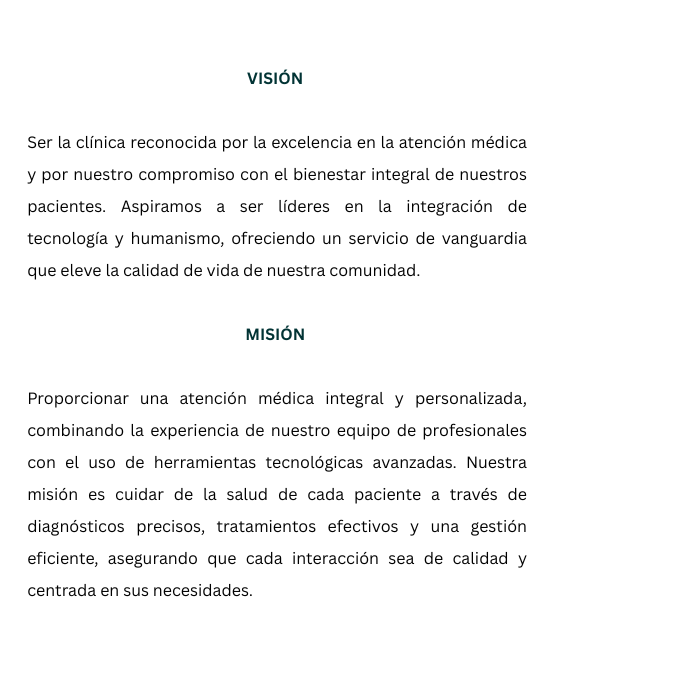
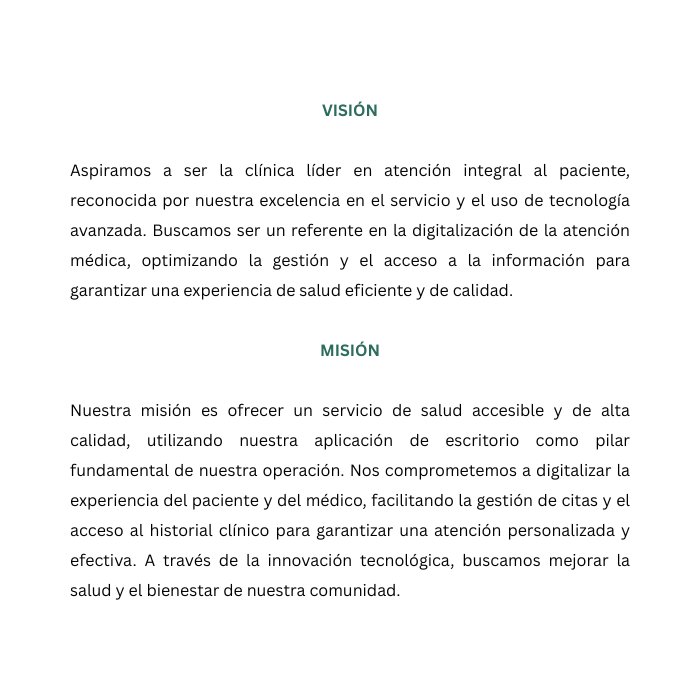
Corregi errores

diff --git a/src/Vista/LoginORSignIn.java b/src/Vista/LoginORSignIn.java
@@ -41,11 +41,11 @@ public class LoginORSignIn extends javax.swing.JFrame {
         jLabel3 = new javax.swing.JLabel();
         jLabel4 = new javax.swing.JLabel();
         jLabel5 = new javax.swing.JLabel();
-        jLabel7 = new javax.swing.JLabel();
         jLabel6 = new javax.swing.JLabel();
         jLabel8 = new javax.swing.JLabel();
         jLabel9 = new javax.swing.JLabel();
         jLabel10 = new javax.swing.JLabel();
+        jLabel7 = new javax.swing.JLabel();
         jMenuBar1 = new javax.swing.JMenuBar();
         jMenu1 = new javax.swing.JMenu();
 
@@ -127,10 +127,10 @@ public class LoginORSignIn extends javax.swing.JFrame {
         jLabel5.setHorizontalAlignment(javax.swing.SwingConstants.CENTER);
         jLabel5.setIcon(new javax.swing.ImageIcon(getClass().getResource("/IMGS/down-arrow.png"))); // NOI18N
 
-        jLabel7.setIcon(new javax.swing.ImageIcon(getClass().getResource("/IMGS/Vision y mision.png"))); // NOI18N
-
+        jLabel6.setHorizontalAlignment(javax.swing.SwingConstants.CENTER);
         jLabel6.setIcon(new javax.swing.ImageIcon(getClass().getResource("/IMGS/descripcion.png"))); // NOI18N
 
+        jLabel8.setHorizontalAlignment(javax.swing.SwingConstants.CENTER);
         jLabel8.setIcon(new javax.swing.ImageIcon(getClass().getResource("/IMGS/Contactos.png"))); // NOI18N
 
         jLabel9.setForeground(new java.awt.Color(102, 102, 102));
@@ -141,61 +141,66 @@ public class LoginORSignIn extends javax.swing.JFrame {
         jLabel10.setHorizontalAlignment(javax.swing.SwingConstants.CENTER);
         jLabel10.setText("INNOVA");
 
+        jLabel7.setHorizontalAlignment(javax.swing.SwingConstants.CENTER);
+        jLabel7.setIcon(new javax.swing.ImageIcon(getClass().getResource("/IMGS/Vision y mision.png"))); // NOI18N
+
         javax.swing.GroupLayout jPanel2Layout = new javax.swing.GroupLayout(jPanel2);
         jPanel2.setLayout(jPanel2Layout);
         jPanel2Layout.setHorizontalGroup(
             jPanel2Layout.createParallelGroup(javax.swing.GroupLayout.Alignment.LEADING)
             .addGroup(jPanel2Layout.createSequentialGroup()
-                .addGroup(jPanel2Layout.createParallelGroup(javax.swing.GroupLayout.Alignment.LEADING)
-                    .addGroup(jPanel2Layout.createSequentialGroup()
-                        .addGap(197, 197, 197)
-                        .addComponent(jLabel9))
-                    .addGroup(jPanel2Layout.createSequentialGroup()
-                        .addGap(106, 106, 106)
-                        .addGroup(jPanel2Layout.createParallelGroup(javax.swing.GroupLayout.Alignment.TRAILING)
-                            .addComponent(jLabel3, javax.swing.GroupLayout.PREFERRED_SIZE, 491, javax.swing.GroupLayout.PREFERRED_SIZE)
-                            .addGroup(jPanel2Layout.createParallelGroup(javax.swing.GroupLayout.Alignment.LEADING)
-                                .addComponent(jLabel1)
-                                .addComponent(jLabel6)))))
-                .addContainerGap(javax.swing.GroupLayout.DEFAULT_SIZE, Short.MAX_VALUE))
+                .addContainerGap(javax.swing.GroupLayout.DEFAULT_SIZE, Short.MAX_VALUE)
+                .addComponent(jLabel8, javax.swing.GroupLayout.PREFERRED_SIZE, 648, javax.swing.GroupLayout.PREFERRED_SIZE)
+                .addGap(34, 34, 34))
             .addGroup(javax.swing.GroupLayout.Alignment.TRAILING, jPanel2Layout.createSequentialGroup()
-                .addGap(0, 78, Short.MAX_VALUE)
+                .addGap(0, 0, Short.MAX_VALUE)
                 .addGroup(jPanel2Layout.createParallelGroup(javax.swing.GroupLayout.Alignment.LEADING)
-                    .addGroup(javax.swing.GroupLayout.Alignment.TRAILING, jPanel2Layout.createSequentialGroup()
-                        .addGroup(jPanel2Layout.createParallelGroup(javax.swing.GroupLayout.Alignment.TRAILING)
-                            .addComponent(jLabel8, javax.swing.GroupLayout.PREFERRED_SIZE, 579, javax.swing.GroupLayout.PREFERRED_SIZE)
-                            .addComponent(jLabel7, javax.swing.GroupLayout.PREFERRED_SIZE, 569, javax.swing.GroupLayout.PREFERRED_SIZE)
-                            .addComponent(jLabel10, javax.swing.GroupLayout.PREFERRED_SIZE, 318, javax.swing.GroupLayout.PREFERRED_SIZE))
-                        .addGap(66, 66, 66))
+                    .addComponent(jLabel6, javax.swing.GroupLayout.PREFERRED_SIZE, 652, javax.swing.GroupLayout.PREFERRED_SIZE)
+                    .addGroup(jPanel2Layout.createSequentialGroup()
+                        .addGap(10, 10, 10)
+                        .addComponent(jLabel7, javax.swing.GroupLayout.PREFERRED_SIZE, 623, javax.swing.GroupLayout.PREFERRED_SIZE)))
+                .addGap(74, 74, 74))
+            .addGroup(jPanel2Layout.createSequentialGroup()
+                .addContainerGap(143, Short.MAX_VALUE)
+                .addGroup(jPanel2Layout.createParallelGroup(javax.swing.GroupLayout.Alignment.LEADING)
+                    .addComponent(jLabel10, javax.swing.GroupLayout.Alignment.TRAILING, javax.swing.GroupLayout.PREFERRED_SIZE, 318, javax.swing.GroupLayout.PREFERRED_SIZE)
+                    .addGroup(javax.swing.GroupLayout.Alignment.TRAILING, jPanel2Layout.createParallelGroup(javax.swing.GroupLayout.Alignment.LEADING)
+                        .addComponent(jLabel1)
+                        .addComponent(jLabel3, javax.swing.GroupLayout.PREFERRED_SIZE, 491, javax.swing.GroupLayout.PREFERRED_SIZE))
                     .addGroup(javax.swing.GroupLayout.Alignment.TRAILING, jPanel2Layout.createSequentialGroup()
                         .addComponent(jLabel4, javax.swing.GroupLayout.PREFERRED_SIZE, 322, javax.swing.GroupLayout.PREFERRED_SIZE)
-                        .addGap(190, 190, 190))
-                    .addGroup(javax.swing.GroupLayout.Alignment.TRAILING, jPanel2Layout.createSequentialGroup()
-                        .addComponent(jLabel5)
-                        .addGap(319, 319, 319))))
+                        .addGap(95, 95, 95))
+                    .addGroup(jPanel2Layout.createSequentialGroup()
+                        .addGap(74, 74, 74)
+                        .addComponent(jLabel9)))
+                .addContainerGap(141, Short.MAX_VALUE))
+            .addGroup(jPanel2Layout.createSequentialGroup()
+                .addGap(347, 347, 347)
+                .addComponent(jLabel5)
+                .addContainerGap(javax.swing.GroupLayout.DEFAULT_SIZE, Short.MAX_VALUE))
         );
         jPanel2Layout.setVerticalGroup(
             jPanel2Layout.createParallelGroup(javax.swing.GroupLayout.Alignment.LEADING)
             .addGroup(jPanel2Layout.createSequentialGroup()
-                .addGap(34, 34, 34)
+                .addGap(54, 54, 54)
                 .addComponent(jLabel1)
-                .addGap(39, 39, 39)
+                .addGap(18, 18, 18)
                 .addComponent(jLabel10, javax.swing.GroupLayout.PREFERRED_SIZE, 64, javax.swing.GroupLayout.PREFERRED_SIZE)
-                .addGap(71, 71, 71)
+                .addGap(64, 64, 64)
                 .addComponent(jLabel3, javax.swing.GroupLayout.PREFERRED_SIZE, 221, javax.swing.GroupLayout.PREFERRED_SIZE)
-                .addGap(70, 70, 70)
+                .addGap(75, 75, 75)
                 .addComponent(jLabel4, javax.swing.GroupLayout.PREFERRED_SIZE, 39, javax.swing.GroupLayout.PREFERRED_SIZE)
                 .addPreferredGap(javax.swing.LayoutStyle.ComponentPlacement.UNRELATED)
                 .addComponent(jLabel5)
-                .addGap(50, 50, 50)
-                .addComponent(jLabel6, javax.swing.GroupLayout.PREFERRED_SIZE, 305, javax.swing.GroupLayout.PREFERRED_SIZE)
-                .addPreferredGap(javax.swing.LayoutStyle.ComponentPlacement.RELATED)
-                .addComponent(jLabel7, javax.swing.GroupLayout.PREFERRED_SIZE, 584, javax.swing.GroupLayout.PREFERRED_SIZE)
-                .addPreferredGap(javax.swing.LayoutStyle.ComponentPlacement.RELATED)
+                .addGap(79, 79, 79)
+                .addComponent(jLabel6, javax.swing.GroupLayout.PREFERRED_SIZE, 329, javax.swing.GroupLayout.PREFERRED_SIZE)
+                .addGap(39, 39, 39)
+                .addComponent(jLabel7, javax.swing.GroupLayout.PREFERRED_SIZE, 536, javax.swing.GroupLayout.PREFERRED_SIZE)
+                .addGap(61, 61, 61)
                 .addComponent(jLabel8, javax.swing.GroupLayout.PREFERRED_SIZE, 468, javax.swing.GroupLayout.PREFERRED_SIZE)
-                .addGap(106, 106, 106)
+                .addPreferredGap(javax.swing.LayoutStyle.ComponentPlacement.RELATED, 101, Short.MAX_VALUE)
                 .addComponent(jLabel9)
-                .addGap(14, 14, 14))
+                .addContainerGap())
         );
 
         jScrollPane1.setViewportView(jPanel2);

diff --git a/src/Vista/InformacionClinica.java b/src/Vista/InformacionClinica.java
@@ -56,8 +56,10 @@ public class InformacionClinica extends javax.swing.JFrame {
         jLabel4.setHorizontalAlignment(javax.swing.SwingConstants.CENTER);
         jLabel4.setText("ACERCA DE NOSOTROS");
 
+        jLabel1.setHorizontalAlignment(javax.swing.SwingConstants.CENTER);
         jLabel1.setIcon(new javax.swing.ImageIcon(getClass().getResource("/IMGS/descripcion.png"))); // NOI18N
 
+        jLabel3.setHorizontalAlignment(javax.swing.SwingConstants.CENTER);
         jLabel3.setIcon(new javax.swing.ImageIcon(getClass().getResource("/IMGS/Vision y mision.png"))); // NOI18N
         jLabel3.setToolTipText("");
 
@@ -73,26 +75,26 @@ public class InformacionClinica extends javax.swing.JFrame {
         jPanel1.setLayout(jPanel1Layout);
         jPanel1Layout.setHorizontalGroup(
             jPanel1Layout.createParallelGroup(javax.swing.GroupLayout.Alignment.LEADING)
+            .addGroup(javax.swing.GroupLayout.Alignment.TRAILING, jPanel1Layout.createSequentialGroup()
+                .addComponent(jLabel1, javax.swing.GroupLayout.PREFERRED_SIZE, 0, Short.MAX_VALUE)
+                .addContainerGap())
             .addGroup(jPanel1Layout.createSequentialGroup()
-                .addGroup(jPanel1Layout.createParallelGroup(javax.swing.GroupLayout.Alignment.LEADING)
-                    .addGroup(jPanel1Layout.createSequentialGroup()
-                        .addGap(69, 69, 69)
-                        .addComponent(jLabel1, javax.swing.GroupLayout.PREFERRED_SIZE, 542, javax.swing.GroupLayout.PREFERRED_SIZE))
-                    .addGroup(jPanel1Layout.createSequentialGroup()
-                        .addGap(48, 48, 48)
-                        .addGroup(jPanel1Layout.createParallelGroup(javax.swing.GroupLayout.Alignment.LEADING)
-                            .addComponent(jLabel2, javax.swing.GroupLayout.PREFERRED_SIZE, 563, javax.swing.GroupLayout.PREFERRED_SIZE)
-                            .addComponent(jLabel3, javax.swing.GroupLayout.PREFERRED_SIZE, 554, javax.swing.GroupLayout.PREFERRED_SIZE)))
-                    .addGroup(jPanel1Layout.createSequentialGroup()
-                        .addGap(150, 150, 150)
-                        .addComponent(jLabel4, javax.swing.GroupLayout.PREFERRED_SIZE, 322, javax.swing.GroupLayout.PREFERRED_SIZE))
-                    .addGroup(jPanel1Layout.createSequentialGroup()
-                        .addGap(190, 190, 190)
-                        .addComponent(jLabel5, javax.swing.GroupLayout.PREFERRED_SIZE, 248, javax.swing.GroupLayout.PREFERRED_SIZE))
-                    .addGroup(jPanel1Layout.createSequentialGroup()
-                        .addGap(173, 173, 173)
-                        .addComponent(jLabel6)))
-                .addContainerGap(42, Short.MAX_VALUE))
+                .addGroup(jPanel1Layout.createParallelGroup(javax.swing.GroupLayout.Alignment.TRAILING)
+                    .addComponent(jLabel3, javax.swing.GroupLayout.PREFERRED_SIZE, 571, javax.swing.GroupLayout.PREFERRED_SIZE)
+                    .addGroup(jPanel1Layout.createParallelGroup(javax.swing.GroupLayout.Alignment.LEADING)
+                        .addGroup(jPanel1Layout.createSequentialGroup()
+                            .addGap(150, 150, 150)
+                            .addComponent(jLabel4, javax.swing.GroupLayout.PREFERRED_SIZE, 322, javax.swing.GroupLayout.PREFERRED_SIZE))
+                        .addGroup(jPanel1Layout.createSequentialGroup()
+                            .addGap(190, 190, 190)
+                            .addComponent(jLabel5, javax.swing.GroupLayout.PREFERRED_SIZE, 248, javax.swing.GroupLayout.PREFERRED_SIZE))
+                        .addGroup(jPanel1Layout.createSequentialGroup()
+                            .addGap(173, 173, 173)
+                            .addComponent(jLabel6))
+                        .addGroup(jPanel1Layout.createSequentialGroup()
+                            .addGap(48, 48, 48)
+                            .addComponent(jLabel2, javax.swing.GroupLayout.PREFERRED_SIZE, 563, javax.swing.GroupLayout.PREFERRED_SIZE))))
+                .addGap(42, 42, 42))
         );
         jPanel1Layout.setVerticalGroup(
             jPanel1Layout.createParallelGroup(javax.swing.GroupLayout.Alignment.LEADING)
